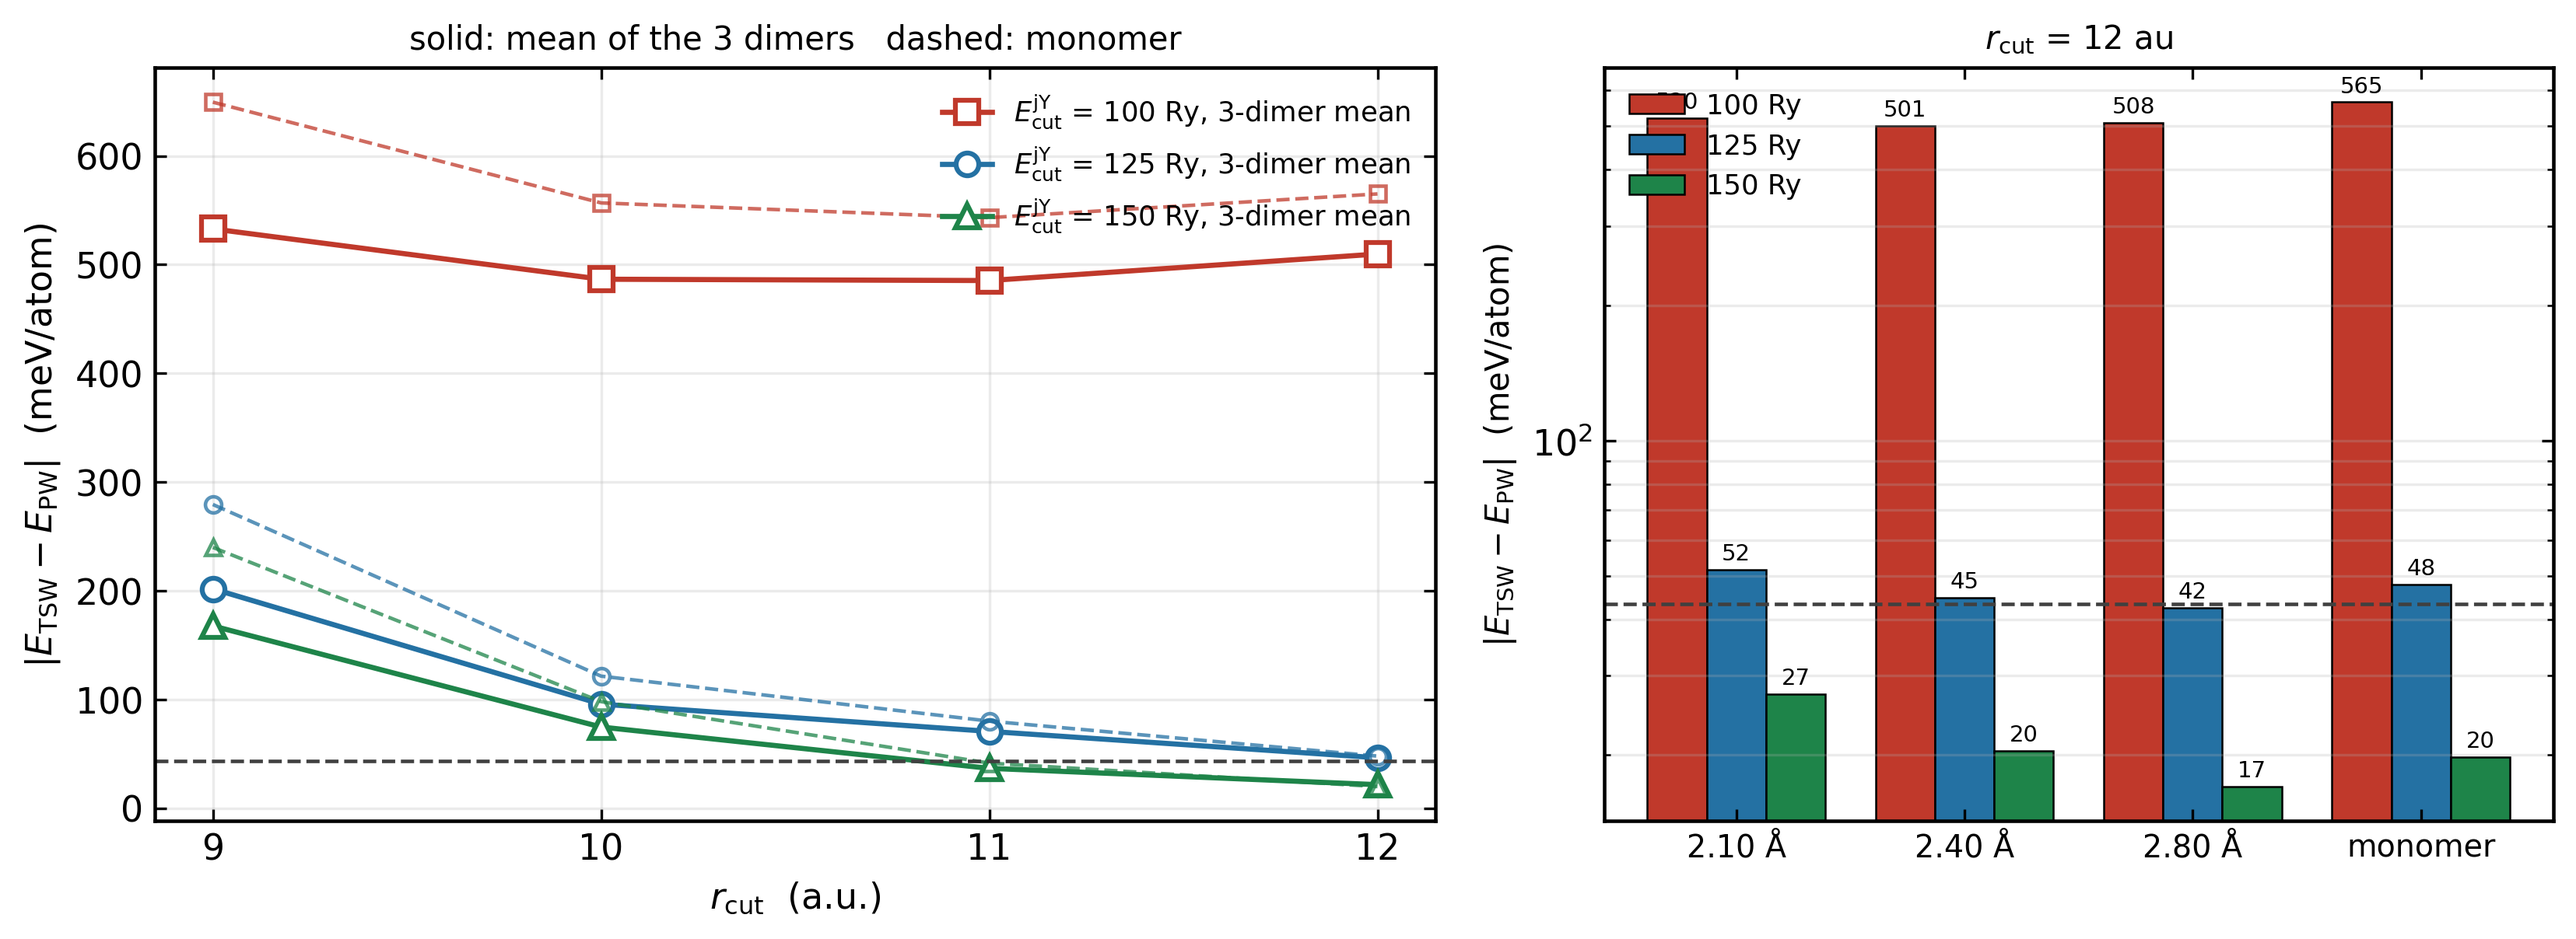
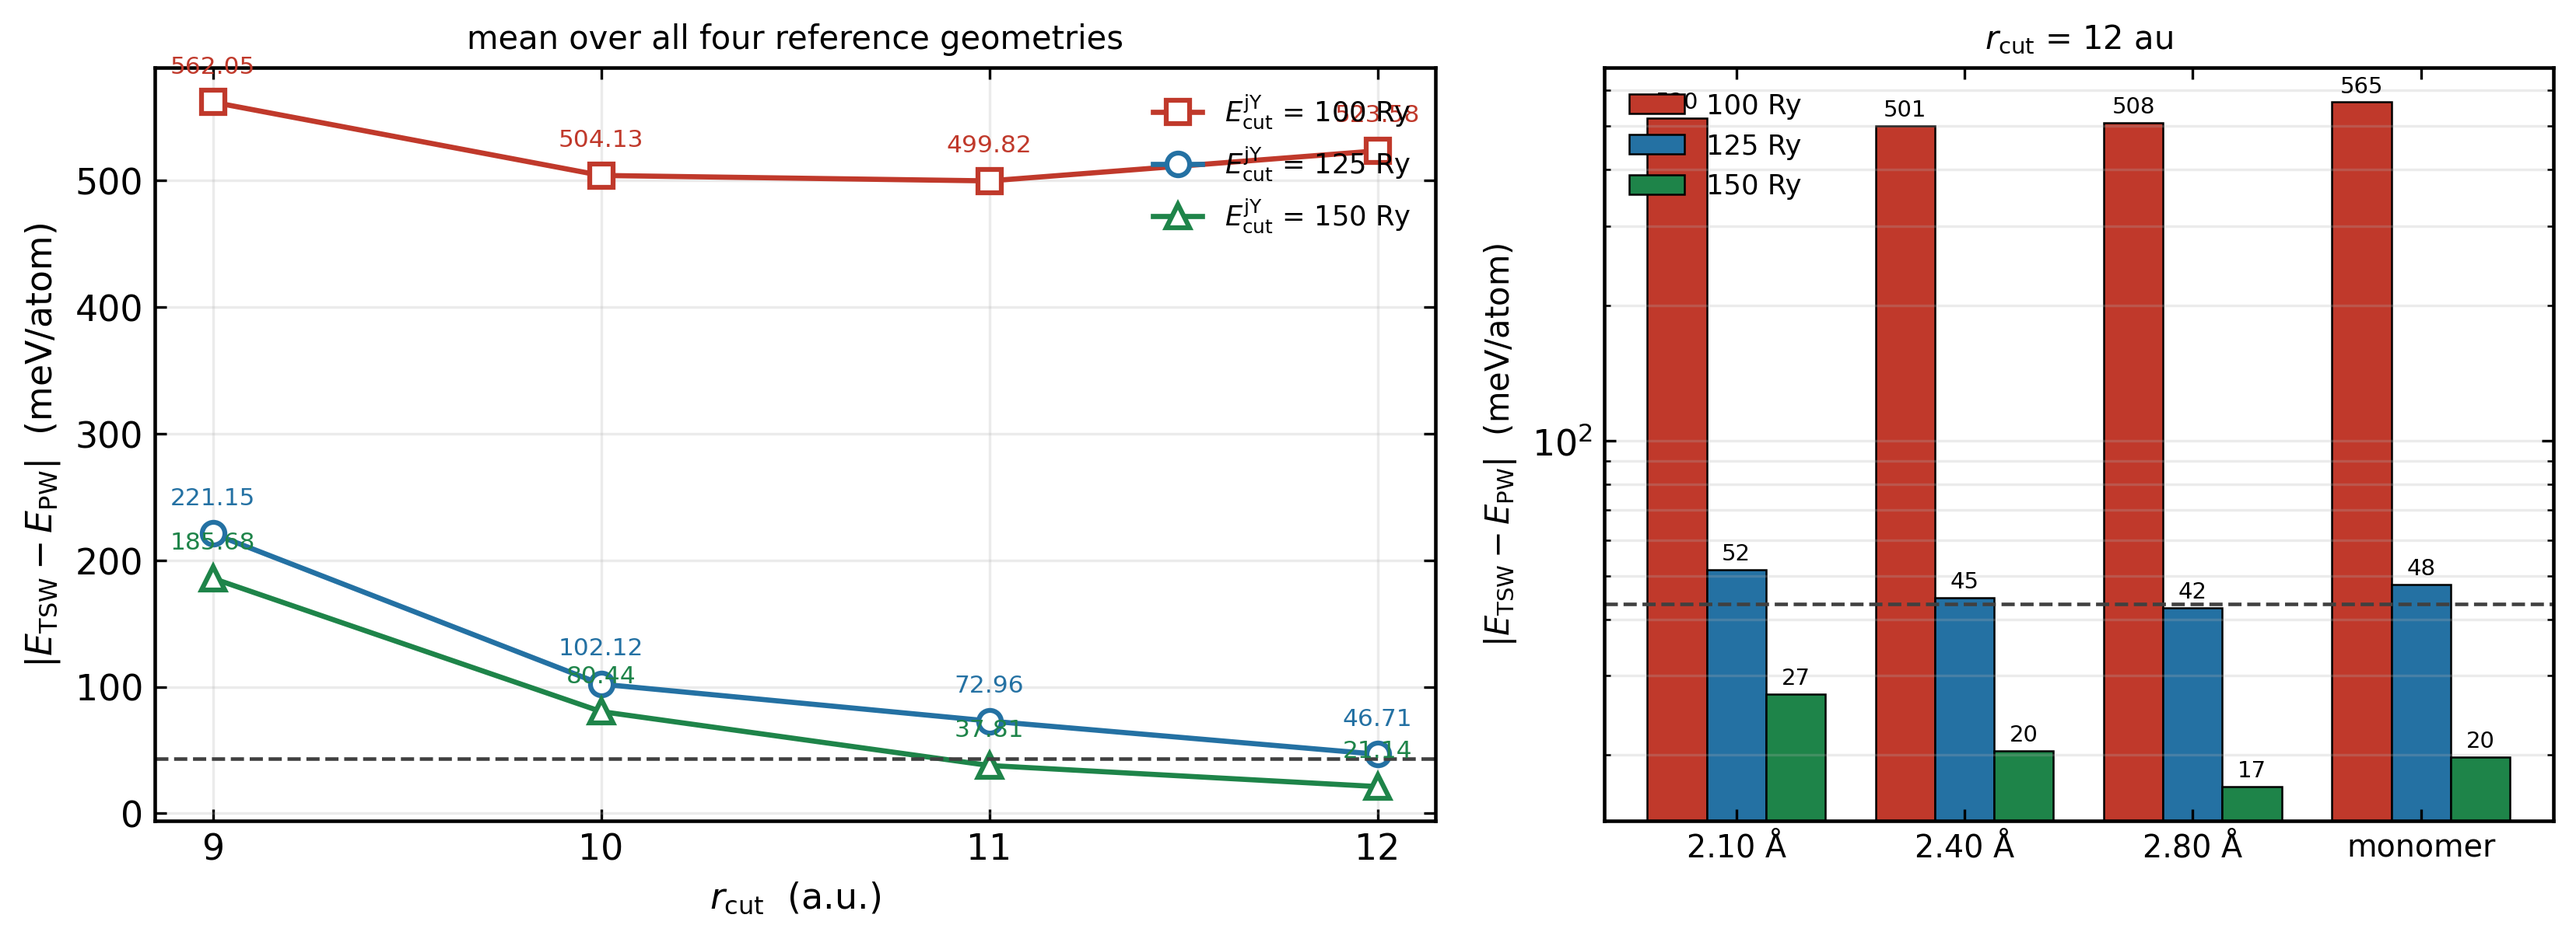
average over all four reference geometries
The headline is now dE_mean4 -- the mean over U2 at 2.10/2.40/2.80 A and the monomer,
the monomer weighted the same as each dimer.  Those four structures are exactly what
the orbital generator fits against, so this average describes the product; keeping the
monomer on its own axis split the metric in two for no gain.

dE_mean3 stays in the CSV because the older project tables quote it, but nothing in the
figure or the cost table uses it any more.

    (150, 12)  mean4 = 21.14 meV/atom = 0.487 kcal/mol   pass
    (125, 12)  mean4 = 46.71 meV/atom = 1.077 kcal/mol   fail

Same two points pass as before; the numbers move by a few meV towards the monomer.

diff --git a/export_tsw_vs_pw.py b/export_tsw_vs_pw.py
@@ -92,12 +92,23 @@ def main() -> int:
             if not all(g in d for g in GEOMETRIES):
                 continue
             mean3 = sum(d[g] for g in GEOMETRIES) / len(GEOMETRIES)
+            # headline: mean over ALL FOUR reference geometries, the monomer given the
+            # same weight as each dimer.  Those four structures are exactly what the
+            # orbital generator fits against, so the average describes the product.
+            all4 = [d[g] for g in GEOMETRIES if g in d]
+            if "monomer" in d:
+                all4.append(d["monomer"])
+            mean4 = sum(all4) / len(all4) if len(all4) == 4 else None
             rows.append({
                 "ecutjy_Ry": f"{s['ecutjy']:g}", "r_cut_AU": f"{s['r_cut']:g}",
                 **{f"dE_{g}_meV_per_atom": round(d[g], 2) for g in GEOMETRIES},
                 "dE_monomer_meV_per_atom": round(d["monomer"], 2) if "monomer" in d else "",
                 "dE_mean3_meV_per_atom": round(mean3, 2),
                 "dE_mean3_kcal_per_atom": round(mean3 / KCAL, 3),
+                "dE_mean4_meV_per_atom": (round(mean4, 2)
+                                          if mean4 is not None else ""),
+                "dE_mean4_kcal_per_atom": (round(mean4 / KCAL, 3)
+                                           if mean4 is not None else ""),
                 "workchain_pk": wc.pk,
             })
     rows.sort(key=lambda r: (float(r["ecutjy_Ry"]), float(r["r_cut_AU"])))
@@ -109,7 +120,9 @@ def main() -> int:
         handle.write("# Same 35 Bohr (18.5212 A) cubic cell, same pseudopotential\n")
         handle.write("# (U.pbe-n-nc.UPF), ecutwfc 180 Ry, gamma_only.  Only the basis differs.\n")
         handle.write("# dE = (E_TSW - E_PW) / n_atoms, meV/atom.  The headline number is\n")
-        handle.write("# dE_mean3, the mean over the three DIMERS; the monomer is separate\n")
+        handle.write("# dE_mean4 is the headline: the mean over all four geometries,\n")
+        handle.write("# the monomer weighted the same as each dimer.  dE_mean3 (dimers\n")
+        handle.write("# only) is kept for comparison with the older tables.\n")
         handle.write("# because its r_cut error does not cancel (kappa ~ 1).\n")
         handle.write("# PW (eV): 2.10 = -4951.807006023504, 2.40 = -4952.064018093108,\n")
         handle.write("#          2.80 = -4950.826505580118, monomer = -2473.881319189626\n")
@@ -118,12 +131,13 @@ def main() -> int:
         writer.writeheader()
         writer.writerows(rows)
     print(f"wrote {out} ({len(rows)} rows)")
-    print(f"\n{'ecutjy':>7}{'r_cut':>7}{'2.10':>8}{'2.40':>8}{'2.80':>8}{'mean3':>9}{'monomer':>10}{'kcal':>8}")
+    print(f"\n{'ecutjy':>7}{'r_cut':>7}{'2.10':>8}{'2.40':>8}{'2.80':>8}{'monomer':>9}"
+          f"{'mean4':>9}{'kcal':>8}")
     for r in rows:
         print(f"{r['ecutjy_Ry']:>7}{r['r_cut_AU']:>7}"
               f"{r['dE_2.10_meV_per_atom']:>8}{r['dE_2.40_meV_per_atom']:>8}"
-              f"{r['dE_2.80_meV_per_atom']:>8}{r['dE_mean3_meV_per_atom']:>9}"
-              f"{r['dE_monomer_meV_per_atom']:>10}{r['dE_mean3_kcal_per_atom']:>8}")
+              f"{r['dE_2.80_meV_per_atom']:>8}{r['dE_monomer_meV_per_atom']:>9}"
+              f"{r['dE_mean4_meV_per_atom']:>9}{r['dE_mean4_kcal_per_atom']:>8}")
     return 0
 
 

diff --git a/2-rcut-ecutjy/plot_tsw_vs_pw.py b/2-rcut-ecutjy/plot_tsw_vs_pw.py
@@ -54,7 +54,7 @@ def main() -> int:
     for r in rows:
         points.append({
             "ecutjy": float(r["ecutjy_Ry"]), "r_cut": float(r["r_cut_AU"]),
-            "mean3": numeric(r, "dE_mean3_meV_per_atom"),
+            "mean4": numeric(r, "dE_mean4_meV_per_atom"),
             "monomer": numeric(r, "dE_monomer_meV_per_atom"),
             "per_geom": {g: numeric(r, f"dE_{g}_meV_per_atom") for g in GEOMS},
             "pk": r.get("workchain_pk", ""),
@@ -72,20 +72,19 @@ def main() -> int:
     for e in sorted({p["ecutjy"] for p in points}):
         sel = sorted([p for p in points if p["ecutjy"] == e], key=lambda p: p["r_cut"])
         colour, marker = STYLE.get(e, ("k", "o"))
-        ax.plot([p["r_cut"] for p in sel], [p["mean3"] for p in sel], "-",
+        ax.plot([p["r_cut"] for p in sel], [p["mean4"] for p in sel], "-",
                 color=colour, lw=1.6, marker=marker, ms=7, mfc="white", mew=1.5,
-                label=rf"$E_{{\rm cut}}^{{\rm jY}}$ = {e:g} Ry, 3-dimer mean")
-        mono = [(p["r_cut"], p["monomer"]) for p in sel if p["monomer"] is not None]
-        if len(mono) == len(sel):
-            ax.plot([m[0] for m in mono], [m[1] for m in mono], "--",
-                    color=colour, lw=1.1, alpha=0.75, marker=marker, ms=5,
-                    mfc="none", mew=1.1)
+                label=rf"$E_{{\rm cut}}^{{\rm jY}}$ = {e:g} Ry")
+        for p in sel:
+            ax.annotate(f"{p['mean4']:g}", (p["r_cut"], p["mean4"]),
+                        textcoords="offset points", xytext=(0, 9), ha="center",
+                        fontsize=7.5, color=colour)
     ax.axhline(KCAL, color="0.25", ls="--", lw=1.1)
     ax.annotate(r"1 kcal/mol = 43.4 meV/atom", xy=(8.7, KCAL), xytext=(0, 5),
                 textcoords="offset points", fontsize=9, color="0.15")
     ax.set_xlabel(r"$r_{\rm cut}$  (a.u.)")
     ax.set_ylabel(r"$|E_{\rm TSW} - E_{\rm PW}|$  (meV/atom)")
-    ax.set_title("solid: mean of the 3 dimers   dashed: monomer", fontsize=10)
+    ax.set_title("mean over all four reference geometries", fontsize=10)
     ax.set_xticks([9, 10, 11, 12])
     ax.legend(loc="upper right", fontsize=8.5, handlelength=1.8)
     ax.grid(alpha=0.25)
@@ -119,13 +118,12 @@ def main() -> int:
     print(f"wrote {out}")
 
     print(f"\n{'ecutjy':>7}{'r_cut':>7}{'2.10':>9}{'2.40':>9}{'2.80':>9}"
-          f"{'mean3':>9}{'monomer':>10}{'kcal/at':>9}")
+          f"{'monomer':>9}{'mean4':>9}{'kcal/at':>9}")
     for p in sorted(points, key=lambda x: (x["ecutjy"], x["r_cut"])):
         f = p["per_geom"]
         print(f"{p['ecutjy']:>7g}{p['r_cut']:>7g}"
               f"{f['2.10']:>9.1f}{f['2.40']:>9.1f}{f['2.80']:>9.1f}"
-              f"{p['mean3']:>9.1f}{(p['monomer'] if p['monomer'] else float('nan')):>10.1f}"
-              f"{p['mean3']/KCAL:>9.2f}")
+              f"{p['monomer']:>9.1f}{p['mean4']:>9.1f}{p['mean4']/KCAL:>9.2f}")
     return 0
 
 

diff --git a/export_cost.py b/export_cost.py
@@ -33,7 +33,7 @@ def main() -> int:
 
     timing = read(DATA / "timings.csv")
     energy = {(float(r["ecutjy_Ry"]), float(r["r_cut_AU"])):
-              (float(r["dE_mean3_meV_per_atom"]), float(r["dE_mean3_kcal_per_atom"]),
+              (float(r["dE_mean4_meV_per_atom"]), float(r["dE_mean4_kcal_per_atom"]),
                float(r["dE_monomer_meV_per_atom"]) if r["dE_monomer_meV_per_atom"] else None,
                r["workchain_pk"])
               for r in read(DATA / "tsw_vs_pw.csv")}
@@ -57,8 +57,8 @@ def main() -> int:
             "total_wall_min": round(cost[key], 1),
             "monomer_wall_min": round(monomer.get(key, 0.0), 1),
             "total_scf_iterations": iters[key],
-            "dE_mean3_meV_per_atom": d_mev if d_mev is not None else "",
-            "dE_mean3_kcal_per_atom": d_kcal if d_kcal is not None else "",
+            "dE_mean4_meV_per_atom": d_mev if d_mev is not None else "",
+            "dE_mean4_kcal_per_atom": d_kcal if d_kcal is not None else "",
             "dE_monomer_meV_per_atom": d_mono if d_mono is not None else "",
             "verdict": ("pass" if d_mev is not None and d_mev <= BAR_MEV else "fail")
                         if d_mev is not None else "",
@@ -78,12 +78,12 @@ def main() -> int:
         writer.writeheader()
         writer.writerows(rows)
     print(f"wrote {out} ({len(rows)} rows)")
-    print(f"\n{'ecutjy':>7}{'r_cut':>7}{'min':>9}{'mean3 meV/at':>14}"
+    print(f"\n{'ecutjy':>7}{'r_cut':>7}{'min':>9}{'mean4 meV/at':>14}"
           f"{'monomer':>9}{'kcal/at':>9}{'verdict':>9}")
     for r in rows:
         print(f"{r['ecutjy_Ry']:>7}{r['r_cut_AU']:>7}{r['total_wall_min']:>9.1f}"
-              f"{r['dE_mean3_meV_per_atom']:>14}{r['dE_monomer_meV_per_atom']:>9}"
-              f"{r['dE_mean3_kcal_per_atom']:>9}{r['verdict']:>9}")
+              f"{r['dE_mean4_meV_per_atom']:>14}{r['dE_monomer_meV_per_atom']:>9}"
+              f"{r['dE_mean4_kcal_per_atom']:>9}{r['verdict']:>9}")
     return 0
 
 

diff --git a/2-rcut-ecutjy/data/README.md b/2-rcut-ecutjy/data/README.md
@@ -44,11 +44,13 @@ difference from the NAO side is the basis.
 | U2 2.80 A | -4950.826505580118 | 580303 |
 | monomer | -2473.881319189626 | 580305 |
 
-`dE_mean3` is the mean over the **three dimers** and is what the figure and
-`cost_vs_accuracy.csv` use.  `dE_monomer` is reported separately on purpose: the
-monomer carries the `r_cut` error without cancellation (kappa ~ 1), so folding it into
-the dimer mean would hide the very thing that makes `r_cut` need 11 au.
+`dE_mean4` is the headline: the mean over **all four** reference geometries, with the
+monomer weighted the same as each dimer.  Those four structures are exactly what the
+orbital generator fits against, so the average describes the product rather than one
+particular bond length.  `dE_mean3` (dimers only) is kept because it is what the older
+tables quoted.
 
+| ecutjy | r_cut | 2.10 | 2.40 | 2.80 | monomer | **mean4** |
 | ecutjy | r_cut | 2.10 | 2.40 | 2.80 | mean3 | **monomer** |
 |---|---:|---:|---:|---:|---:|---:|
 | 125 | 12 | 51.71 | 44.79 | 42.47 | 46.32 | 47.86 |
